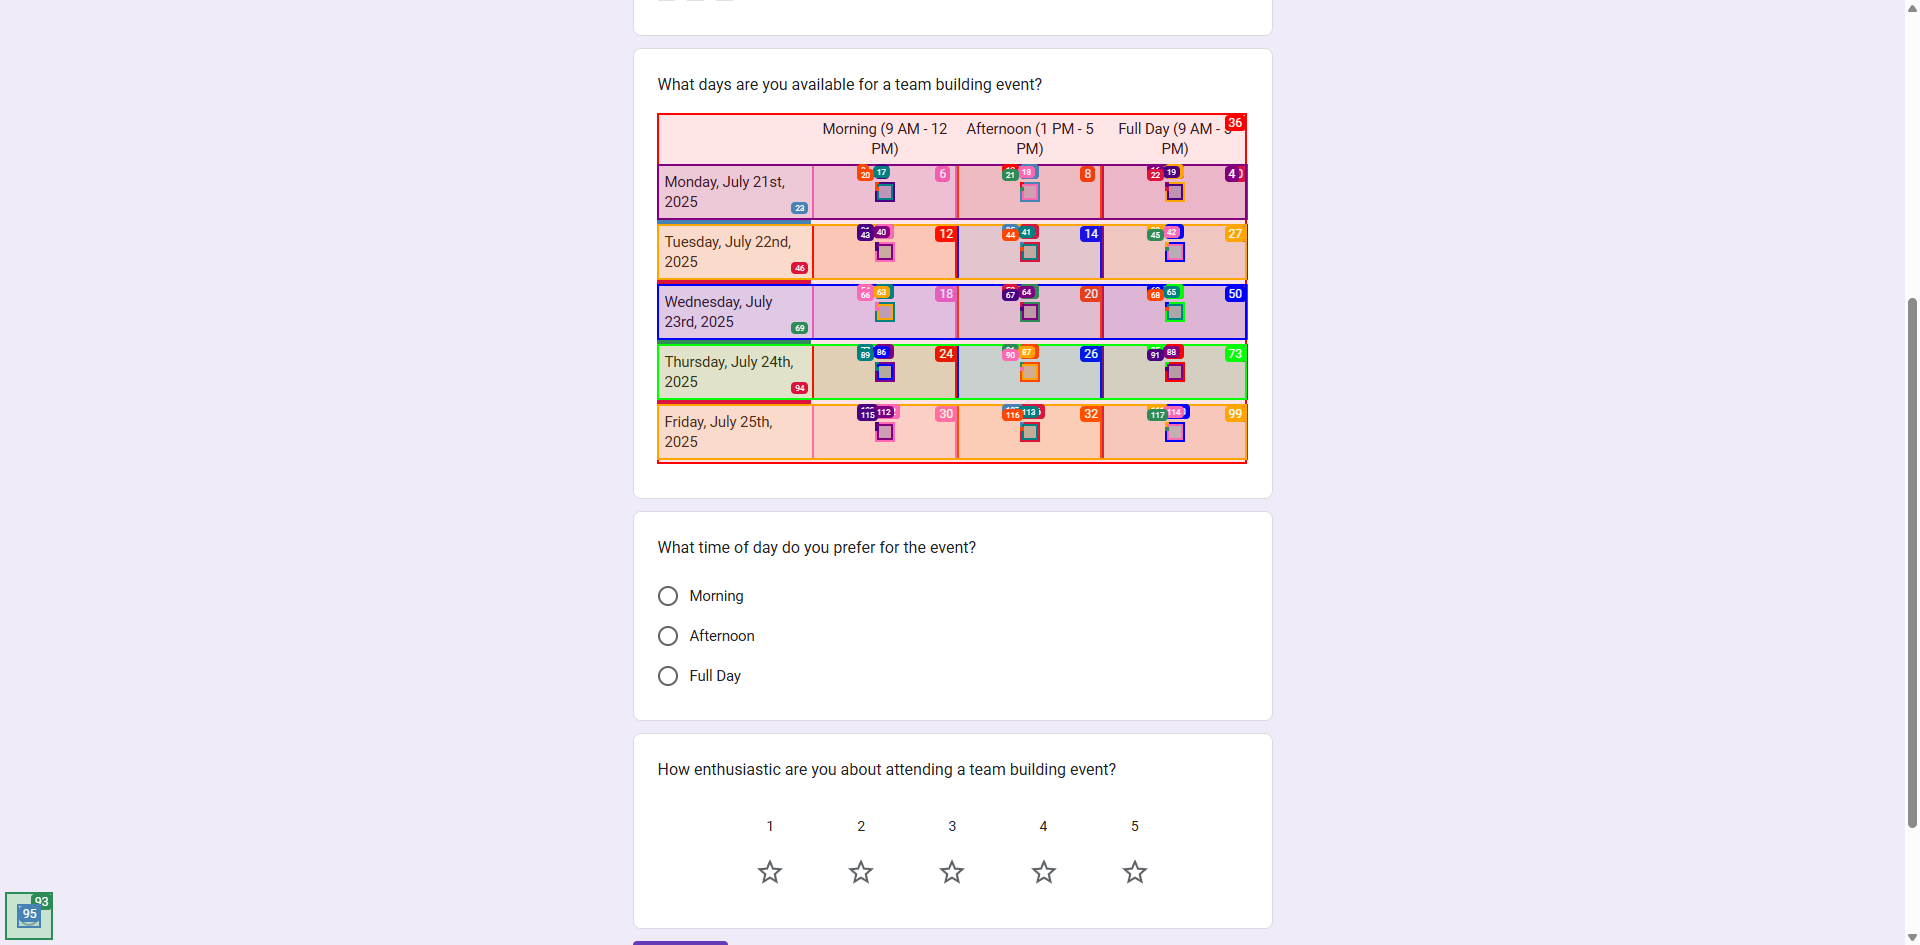
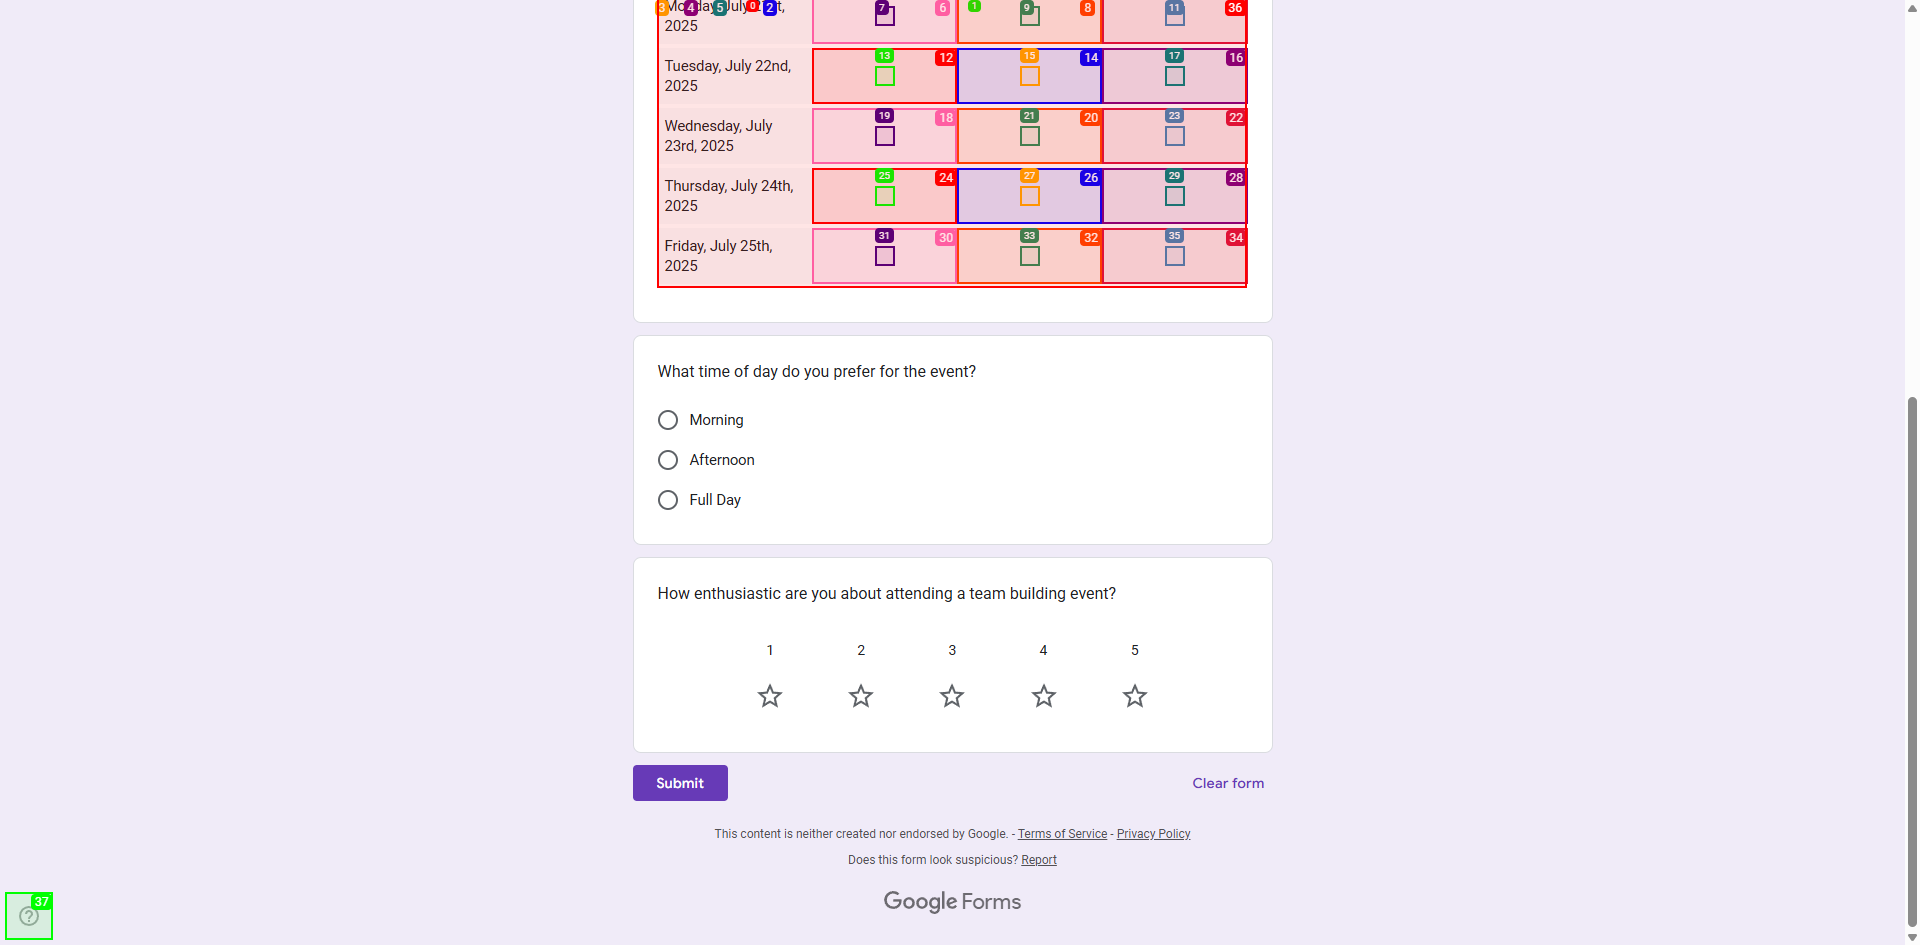
work toward getting sticky elements to work while scrolling

diff --git a/actions/new/dom/highlight.js b/actions/new/dom/highlight.js
@@ -14,6 +14,9 @@ export function createHighlightUtils(pushTiming, popTiming, getXPathTree) {
     
     // Array to track all highlighted elements
     const highlightedElements = [];
+    
+    // Cache for sticky elements to avoid recomputing their positions
+    const stickyElementsCache = new Map();
 
     /**
      * Extracts additional information about an element for tracking purposes.
@@ -71,6 +74,7 @@ export function createHighlightUtils(pushTiming, popTiming, getXPathTree) {
             };
             highlightedElements.push(elementInfo);
 
+            
             // make a container for all highlights to easily delete them all at once
             let container = document.getElementById(HIGHLIGHT_CONTAINER_ID);
             if (!container) {
@@ -270,8 +274,11 @@ export function createHighlightUtils(pushTiming, popTiming, getXPathTree) {
         // Sort by vertical position for consistent highlighting order
         elementsToHighlight.sort((a, b) => a.rect.top - b.rect.top);
         
-        // Clear existing highlights
-        cleanupHighlights();
+        // Get current highlighted elements before clearing
+        const currentHighlightedElements = getHighlightedElements();
+        
+        // Clear existing highlights, preserving sticky elements
+        cleanupHighlights(currentHighlightedElements);
         
         // Highlight elements
         elementsToHighlight.forEach((elementInfo, index) => {
@@ -317,18 +324,122 @@ export function createHighlightUtils(pushTiming, popTiming, getXPathTree) {
     }
 
     /**
-     * Removes all highlight overlays and their associated event listeners from the page 
+     * Removes all highlight overlays and their associated event listeners from the page.
+     * Preserves sticky elements that haven't moved from their previous positions.
+     * 
+     * @param {Array} currentHighlightedElements - Array of currently highlighted element objects
      */
-    function cleanupHighlights() {
-        if (window._highlightCleanupFunctions) {
-            window._highlightCleanupFunctions.forEach(fn => fn());
-            window._highlightCleanupFunctions = [];
+    function cleanupHighlights(currentHighlightedElements = []) {
+        // If no current elements provided, do full cleanup
+        if (!currentHighlightedElements || currentHighlightedElements.length === 0) {
+            if (window._highlightCleanupFunctions) {
+                window._highlightCleanupFunctions.forEach(fn => fn());
+                window._highlightCleanupFunctions = [];
+            }
+            const container = document.getElementById(HIGHLIGHT_CONTAINER_ID);
+            if (container) container.remove();
+            
+            // Clear the tracking array and cache
+            highlightedElements.length = 0;
+            stickyElementsCache.clear();
+            return;
         }
-        const container = document.getElementById(HIGHLIGHT_CONTAINER_ID);
-        if (container) container.remove();
         
-        // Clear the tracking array
+        // Compare current highlights with past/cached highlights
+        const elementsToKeep = [];
+        const elementsToRemove = [];
+        
+        for (const elementInfo of highlightedElements) {
+            const { xpath } = elementInfo;
+            
+            // Try to find the element in the DOM
+            let element = null;
+            try {
+                // Simple XPath evaluation (you might want to use a more robust XPath evaluator)
+                const result = document.evaluate(xpath, document, null, XPathResult.FIRST_ORDERED_NODE_TYPE, null);
+                element = result.singleNodeValue;
+            } catch (e) {
+                // Element not found, remove it
+                elementsToRemove.push(elementInfo);
+                continue;
+            }
+            
+            if (!element) {
+                elementsToRemove.push(elementInfo);
+                continue;
+            }
+            
+            // Get current position - convert viewport coordinates to page coordinates
+            const currentRect = element.getBoundingClientRect();
+            const scrollX = window.pageXOffset || document.documentElement.scrollLeft || document.body.scrollLeft;
+            const scrollY = window.pageYOffset || document.documentElement.scrollTop || document.body.scrollTop;
+            
+            const currentPosition = {
+                top: currentRect.top + scrollY,
+                left: currentRect.left + scrollX,
+                width: currentRect.width,
+                height: currentRect.height
+            };
+            
+            // Check if we have cached position for this element
+            const cachedPosition = stickyElementsCache.get(xpath);
+            
+            if (cachedPosition) {
+                // Compare current position with cached position
+                const isSticky = (
+                    Math.abs(currentPosition.top - cachedPosition.top) < 1 &&
+                    Math.abs(currentPosition.left - cachedPosition.left) < 1 &&
+                    Math.abs(currentPosition.width - cachedPosition.width) < 1 &&
+                    Math.abs(currentPosition.height - cachedPosition.height) < 1
+                );
+                
+                if (isSticky) {
+                    // Element is sticky, keep it
+                    elementsToKeep.push(elementInfo);
+                    // Update cache with current position
+                    stickyElementsCache.set(xpath, currentPosition);
+                } else {
+                    // Element moved, remove it
+                    elementsToRemove.push(elementInfo);
+                    stickyElementsCache.delete(xpath);
+                }
+            } else {
+                // First time seeing this element, compare with past rect
+                const pastRect = elementInfo.rect;
+                const isSticky = (
+                    Math.abs(currentPosition.top - pastRect.top) < 1 &&
+                    Math.abs(currentPosition.left - pastRect.left) < 1 &&
+                    Math.abs(currentPosition.width - pastRect.width) < 1 &&
+                    Math.abs(currentPosition.height - pastRect.height) < 1
+                );
+                if (isSticky) {
+                    elementsToKeep.push(elementInfo);
+                    stickyElementsCache.set(xpath, currentPosition);
+                } else {
+                    elementsToRemove.push(elementInfo);
+                    stickyElementsCache.delete(xpath);
+                }
+            }
+        }
+        
+        // Remove non-sticky elements and their overlays
+        if (elementsToRemove.length > 0) {
+            if (window._highlightCleanupFunctions) {
+                // Only remove cleanup functions for elements we're removing
+                // This is a simplified approach - in practice you might want to track
+                // cleanup functions per element more precisely
+                window._highlightCleanupFunctions.forEach(fn => fn());
+                window._highlightCleanupFunctions = [];
+            }
+            
+            // Remove overlays for non-sticky elements
+            const container = document.getElementById(HIGHLIGHT_CONTAINER_ID);
+            if (container) container.remove();
+        }
+        
+        // Update the tracking array to only include sticky elements
         highlightedElements.length = 0;
+        highlightedElements.push(...elementsToKeep);
     }
 
     /**
@@ -339,12 +450,21 @@ export function createHighlightUtils(pushTiming, popTiming, getXPathTree) {
         return [...highlightedElements];
     }
 
+    /**
+     * Clears the sticky elements cache.
+     * Useful when you want to reset the sticky element detection.
+     */
+    function clearStickyCache() {
+        stickyElementsCache.clear();
+    }
+
 
     return { 
         highlightElement, 
         cleanupHighlights, 
         getHighlightedElements,
         highlightElementsInViewport,
-        createScrollHandler
+        createScrollHandler,
+        clearStickyCache
     };
 } 

diff --git a/actions/new/dom/buildDomTree.js b/actions/new/dom/buildDomTree.js
@@ -46,7 +46,8 @@ export default function buildDomTree(args = {
     // --- Instantiate helpers with shared state ---
     const { PERF_METRICS, measureDomOperation, postProcessMetrics, pushTiming, popTiming } = createMetrics(debugMode);
     const domUtils = createDomUtils(debugMode, PERF_METRICS, measureDomOperation);
-    const { highlightElement, cleanupHighlights, getHighlightedElements, createScrollHandler } = createHighlightUtils(pushTiming, popTiming, domUtils.getXPathTree);
+    const { highlightElement, cleanupHighlights, getHighlightedElements, createScrollHandler, clearStickyCache } = 
+        createHighlightUtils(pushTiming, popTiming, domUtils.getXPathTree);
 
     // --- Main state ---
     let highlightIndex = 0;

diff --git a/actions/new/testing.py b/actions/new/testing.py
@@ -57,14 +57,15 @@ async def main() -> None:
         try:
             await page.goto(
                 # google form test
-                # "https://docs.google.com/forms/d/e/1FAIpQLScNUBVunFJk9x-ScKqcg9Vh_36LGzHP2xImQxpA9f0Mcklzwg/viewform",
+                "https://docs.google.com/forms/d/e/1FAIpQLScNUBVunFJk9x-ScKqcg9Vh_36LGzHP2xImQxpA9f0Mcklzwg/viewform",
                 # google doc test
                 # "https://docs.google.com/document/d/1DBPuFb-byQ9rZcxZo2ky0y5Sn1TjeF-2q6rfwOhI1sg/edit?usp=sharing",
                 # google sheets test
                 # "https://docs.google.com/spreadsheets/d/1seBguBzuDMYo6-7vZCOlb-Y6zFKTKKUYqJu81qxev6Q/edit?usp=sharing",
                 # iframe test
-                "https://developer.mozilla.org/en-US/docs/Web/HTML/Reference/Elements/iframe",
-                # "https://www.w3schools.com/tags/tryit.asp?filename=tryhtml_iframe_frameborder_css",
+                # "https://developer.mozilla.org/en-US/docs/Web/HTML/Reference/Elements/iframe",
+                # sticky element test
+                # "https://www.google.com/search?q=giraffes&sca_esv=24f694eca9ca74e2&biw=2087&bih=1047&udm=2&sxsrf=AE3TifOWzSQ029mWGTQiCm6P5PGaDuNjJQ%3A1754366154102&ei=yoCRaPKCBpXDkPIP9OukuQ8&ved=0ahUKEwjyj6-b4_KOAxWVIUQIHfQ1KfcQ4dUDCBE&uact=5&oq=giraffes&gs_lp=EgNpbWciCGdpcmFmZmVzMgcQIxgnGMkCMgYQABgHGB4yBhAAGAcYHjIGEAAYBxgeMgYQABgHGB4yBhAAGAcYHjIGEAAYBxgeMgYQABgHGB4yBhAAGAcYHjIGEAAYBxgeSPUDUABYAHABeACQAQCYAQCgAQCqAQC4AQPIAQCYAgGgAgaYAwCIBgGSBwExoAcAsgcAuAcAwgcDMi0xyAcE&sclient=img",
                 wait_until="domcontentloaded",
             )
         except Exception as e:
@@ -86,7 +87,7 @@ async def main() -> None:
         )
         await page.wait_for_timeout(50000)
         await page.screenshot(path="actions/new/screenshot.png")
-        print(result["map"])
+        print(result["highlightedElements"])
         await browser.close()
 
 
